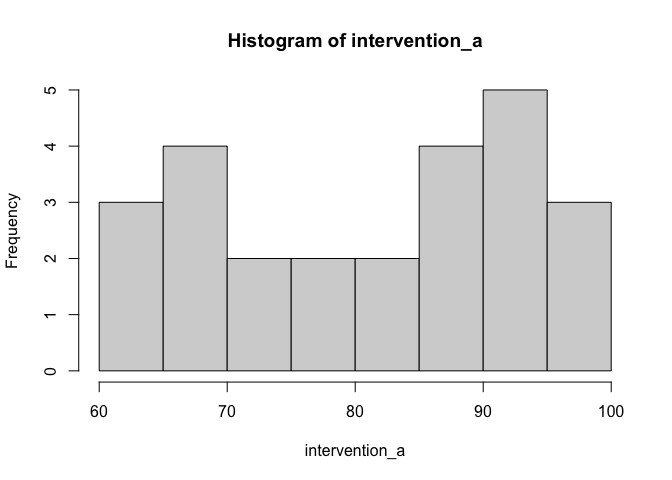
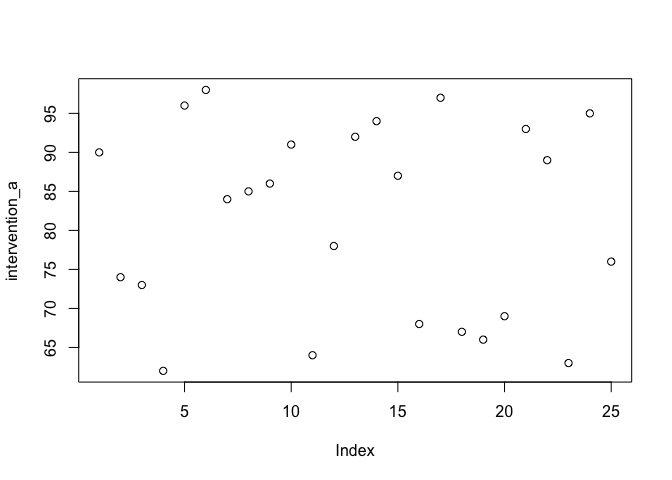
changed plot

diff --git a/TTests/ttests.md b/TTests/ttests.md
@@ -105,41 +105,19 @@ head(df)
 ## Exploratory Data Analysis
 
 ``` r
-#| layout-ncol: 2
-#| fig-cap: 
-#|   - "Speed and Stopping Distances of Cars"
-#|   - "Vapor Pressure of Mercury as a Function of Temperature"
-
-
-
-
-
-
-hist(intervention_a)
+plot(intervention_a)
 ```
 
 ![](ttests.markdown_github_files/figure-markdown_github/unnamed-chunk-2-1.png)
 
 ``` r
-hist(intervention_b)
+plot(intervention_b)
 ```
 
 ![](ttests.markdown_github_files/figure-markdown_github/unnamed-chunk-2-2.png)
 
 ``` r
-head(iris)
+#hist(intervention_a)
+
+#hist(intervention_b)
 ```
-
-      Sepal.Length Sepal.Width Petal.Length Petal.Width Species
-    1          5.1         3.5          1.4         0.2  setosa
-    2          4.9         3.0          1.4         0.2  setosa
-    3          4.7         3.2          1.3         0.2  setosa
-    4          4.6         3.1          1.5         0.2  setosa
-    5          5.0         3.6          1.4         0.2  setosa
-    6          5.4         3.9          1.7         0.4  setosa
-
-``` r
-plot(iris)
-```
-
-![](ttests.markdown_github_files/figure-markdown_github/unnamed-chunk-4-1.png)
